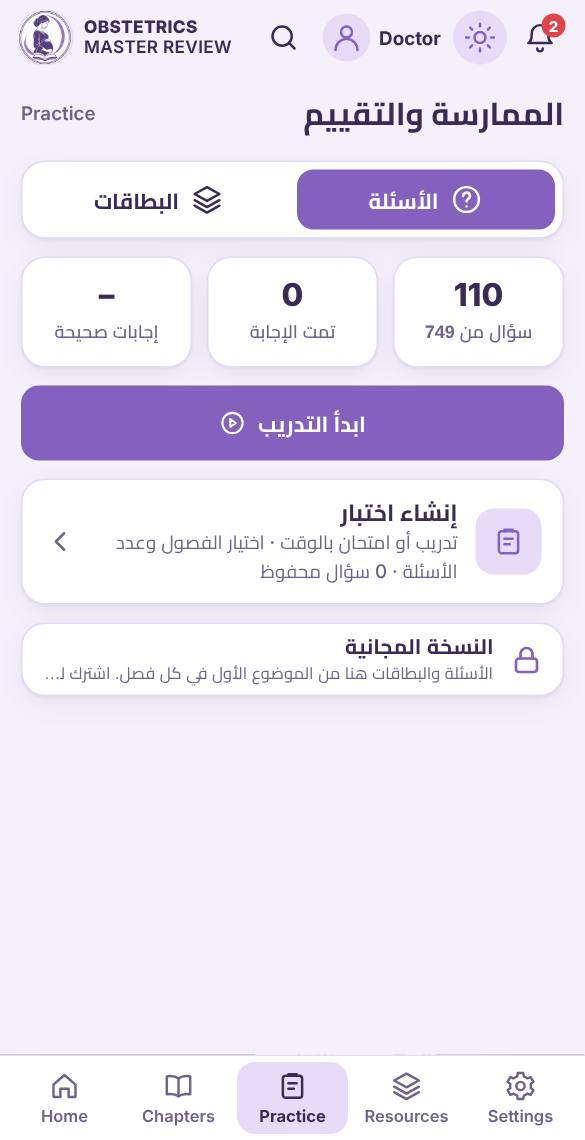
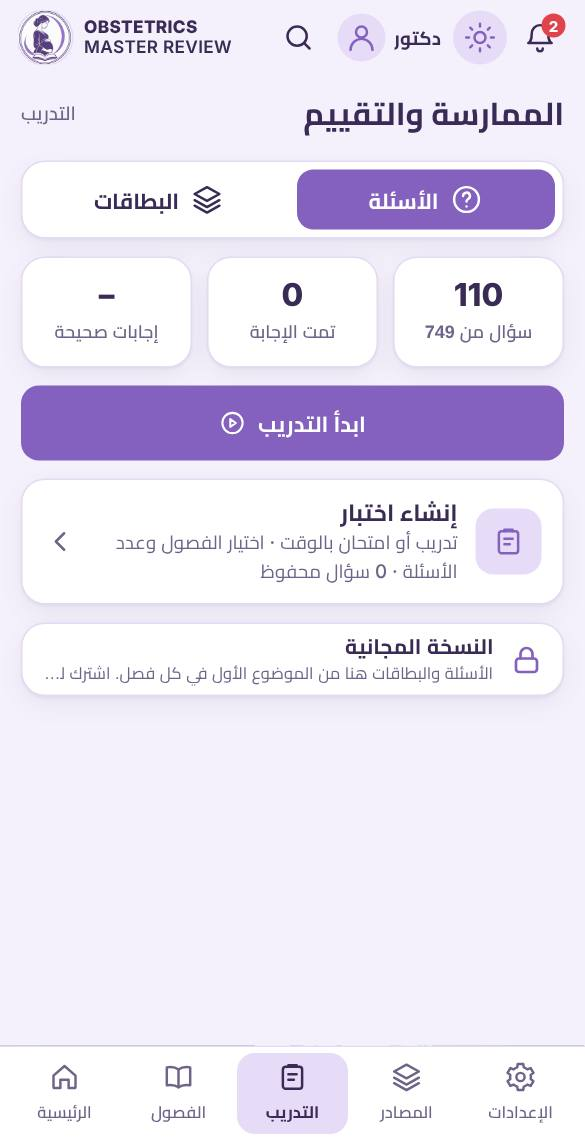
Search across the app with scopes and word matching; progress sheet and Home progress tiles rebuilt
Claude-Session: https://claude.ai/code/session_01FGisyfoAP4Jc4Rz7CoPi67

diff --git a/src/v2.search.js b/src/v2.search.js
@@ -1,0 +1,45 @@
+/* ---------- search (owner, 11 Nov 2026): one box for the whole app. Under it the student chooses where to search (everything, topics, the
+   book's pages, flashcards, questions, the app's own places) and which chapter. Matching is by words, not by the exact phrase: every word
+   typed must be found, in any order; case, hyphens, dashes and Arabic letter forms do not matter; a match in a topic's name comes first. ---------- */
+var SSC=sp('ssc')||'all',SCH2=0;
+function sn(s){return String(s||'').toLowerCase().replace(/[ً-ْـ]/g,'').replace(/[أإآ]/g,'ا').replace(/ة/g,'ه').replace(/ى/g,'ي').replace(/[‐-―\-_/'’`.,;:()\[\]"“”]+/g,' ').replace(/\s+/g,' ').trim()}
+var SPLACES=[['الفصول','chapters topics contents فهرس محتويات','v:v2chapters','book'],['بنك الأسئلة','questions question bank qbank mcq test exam اختبار امتحان اسئله','v:qbank-v','q'],['البطاقات','flashcards cards بطاقات كروت مراجعه','a:allcards','layers'],
+ ['بطاقات اليوم','today daily cards streak سلسله','a:cards','layers'],['المراجعة السريعة','rapid review recap ملخص','a:rr','bolt'],['أدوية التوليد','drugs doses pharmacology ادويه جرعات','a:dr','pill'],['السريري OSCE','osce clinical history examination stations محطات فحص','a:osce','steth'],
+ ['المحاضرات','video lectures videos فيديو محاضره','v:v2lect','play'],['السلايدات','slides lecture slides شرائح','v:v2slides','slides'],['ملاحظاتي','notes highlights my notes تظليل ملاحظه','a:notes','pen'],['المصادر المحفوظة','saved bookmarks محفوظات علامه','v:v2saved','bm'],
+ ['الاشتراك','subscription subscribe plans payment price trial bankak اشتراك دفع سعر تجربه خطه تفعيل','a:sub','crown'],['الملف الشخصي','profile name photo user number اسم صوره','v:v2profile','user'],['المظهر واللون واللغة','appearance theme colour color language night dark day arabic english لون ليلي لغه مظهر','v:v2settings','palette'],
+ ['الإشعارات','notifications bell اشعار','v:v2notif','bell'],['دليل الاستخدام','user manual guide how to use شرح طريقه','v:v2help','book'],['المساعدة','help contact whatsapp telegram call phone support مساعده تواصل واتساب','v:v2contact','help'],
+ ['عن الكتاب','about authors reviewers references edition copyright مؤلف مراجع حقوق','v:v2about','info'],['التنزيلات','downloads offline تنزيل','v:v2dl','dl'],['تقدّمي','progress statistics تقدم','a:prog','bars'],['الإعدادات','settings اعدادات','v:v2settings','gear']];
+var STXT=null,SCARD=null,SQ=null;
+function sIndex(){if(STXT&&STXT.length===TEXT.length)return;STXT=TEXT.map(sn);SCARD=[];deckIds.forEach(function(id){DECKS[id].cards.forEach(function(c){SCARD.push({id:id,c:c,n:sn(c[1]+' '+c[2])})})});
+  SQ=QS.map(function(q){return {q:q,n:sn((q.stem||'')+' '+(q.q||'')+' '+(q.theme||''))}})}
+function sHit(n,tk){for(var i=0;i<tk.length;i++)if(n.indexOf(tk[i])<0)return false;return true}
+function sMark(raw,tk,len){var low=raw.toLowerCase(),k=-1,w='';tk.forEach(function(t){var p=low.indexOf(t);if(p>=0&&(k<0||p<k)){k=p;w=t}});if(k<0)return X(raw.slice(0,len||140))+(raw.length>(len||140)?'…':'');
+  var a=Math.max(0,k-50);return (a?'…':'')+X(raw.slice(a,k))+'<mark>'+X(raw.slice(k,k+w.length))+'</mark>'+X(raw.slice(k+w.length,k+w.length+90))+'…'}
+function sScopes(){var S=[['all','الكل'],['topics','المواضيع'],['pages','صفحات الكتاب'],['cards','البطاقات'],['qs','الأسئلة'],['app','التطبيق']];
+  return '<div class="ssc" lang="ar">'+S.map(function(s){return '<button type="button" class="chip'+(SSC===s[0]?' on':'')+'" data-ssc="'+s[0]+'">'+s[1]+'</button>'}).join('')+
+   '<select id="sChSel" aria-label="الفصل"><option value="0">كل الفصول</option>'+META.chapters.map(function(c){return '<option value="'+c.n+'"'+(SCH2===c.n?' selected':'')+'>Chapter '+c.n+' · '+X(c.name)+'</option>'}).join('')+'</select></div>'}
+function sPlace(p){return '<button type="button" class="v2c sres" data-go="'+p[2]+'"><span class="ii">'+I(p[3]||'chev')+'</span><span><b lang="ar">'+p[0]+'</b></span>'+I('chev')+'</button>'}
+runSearch=function(){var raw=$('q').value.trim(),out=$('results'),tk=sn(raw).split(' ').filter(function(x){return x.length>1||/\d/.test(x)}),h=sScopes();
+  if(!tk.length){out.innerHTML=h+'<p class="shd" lang="ar">أماكن في التطبيق</p><div class="sgr">'+SPLACES.slice(0,12).map(sPlace).join('')+'</div>';return}
+  sIndex();var on=function(k){return SSC==='all'||SSC===k},inCh=function(ch){return !SCH2||ch===SCH2},n=0,sec=function(t,c,body){n+=c;return c?'<p class="shd" lang="ar">'+t+' <small>'+c+'</small></p>'+body:''};
+  if(on('topics')){var T=TOPICS.filter(function(t){return inCh(t.ch)&&sHit(sn(t.no+' '+t.title+' '+(t.sub||'')+' '+chap(t.ch).name),tk)}).sort(function(a,b){return (sHit(sn(b.title),tk)?1:0)-(sHit(sn(a.title),tk)?1:0)});
+    h+=sec('المواضيع',T.length,'<div class="sgr">'+T.slice(0,20).map(function(t){return '<button type="button" class="v2c sres" data-topic="'+t.id+'"><span class="ii">'+I(locked(t.id)?'lock':'book')+'</span><span><b>'+t.no+' '+X(t.title.charAt(0).toUpperCase()+t.title.slice(1))+'</b><small>Chapter '+t.ch+' · '+X(chap(t.ch).name)+'</small></span>'+I('chev')+'</button>'}).join('')+'</div>')}
+  if(on('app')&&!SCH2){var P=SPLACES.filter(function(p){return sHit(sn(p[0]+' '+p[1]),tk)});h+=sec('أماكن في التطبيق',P.length,'<div class="sgr">'+P.map(sPlace).join('')+'</div>')}
+  if(on('pages')){var H=[];STXT.forEach(function(t,i){if(!sHit(t,tk))return;var p=PAGES[i],tp=p.t?TOPICS.filter(function(x){return x.id===p.t})[0]:null;if(SCH2&&(!tp||tp.ch!==SCH2))return;
+      var c=0,k=t.indexOf(tk[0]);while(k>=0&&c<50){c++;k=t.indexOf(tk[0],k+1)}H.push({i:i,c:c+(sn(p.label).indexOf(tk[0])>=0?100:0)+(t.indexOf(tk.join(' '))>=0?40:0)})});H.sort(function(a,b){return b.c-a.c});
+    h+=sec('صفحات الكتاب',H.length,'<div class="res">'+H.slice(0,40).map(function(x){return '<button class="ri" type="button" data-i="'+x.i+'" data-w="'+X(tk[0])+'"><span class="pn">p '+(PAGES[x.i].bn||'✎')+'</span><span><b>'+X(PAGES[x.i].label)+'</b><span>'+sMark(TEXT[x.i],tk)+'</span></span></button>'}).join('')+'</div>')}
+  if(on('cards')){var C=SCARD.filter(function(x){return inCh(DCH[x.id])&&sHit(x.n,tk)});
+    h+=sec('البطاقات',C.length,'<div class="res">'+C.slice(0,30).map(function(x){return '<button class="ri sc" type="button"><span class="pn">'+X(DECKS[x.id].short)+'</span><span><b>'+sMark(x.c[1],tk,200)+'</b><span class="an">'+X(x.c[2])+'</span></span></button>'}).join('')+'</div>')}
+  if(on('qs')){var Q=SQ.filter(function(x){return inCh(x.q.ch)&&sHit(x.n,tk)});
+    h+=sec('الأسئلة',Q.length,'<div class="res">'+Q.slice(0,30).map(function(x){var t=TOPICS.filter(function(y){return y.id===x.q.topic})[0];return '<button class="ri" type="button" data-qid="'+X(x.q.id)+'"><span class="pn">'+(t?t.no:'Q')+'</span><span><b>'+sMark((x.q.stem||x.q.q||''),tk,200)+'</b><span>'+X(x.q.q||x.q.lead||'')+'</span></span></button>'}).join('')+'</div>')}
+  out.innerHTML=h+(n?'':'<p class="empty" lang="ar">لا توجد نتائج. جرّب كلمة أقصر، أو غيّر مكان البحث.</p>')};
+$('q').addEventListener('input',function(){runSearch()});
+$('results').onclick=function(e){var b=e.target.closest('button');if(!b)return;
+  if(b.dataset.ssc){SSC=b.dataset.ssc;sp('ssc',SSC);runSearch();return}
+  if(b.dataset.topic){var t=TOPICS.filter(function(x){return x.id===b.dataset.topic})[0];if(t)openTopic(t);return}
+  if(b.dataset.go){var g=b.dataset.go.split(':');if(g[0]==='v')go(g[1]);else if(ACT[g[1]])ACT[g[1]](b);return}
+  if(b.dataset.qid){CUR={ids:[b.dataset.qid],ans:{},sub:{},mode:'tutor',i:0,start:Date.now(),lim:75};saveQ();go('qbank-v');return}
+  if(b.classList.contains('sc')){b.classList.toggle('open');return}
+  if(b.dataset.i){var i=+b.dataset.i;goIdx(i);try{markIn(i,b.dataset.w||$('q').value.trim())}catch(x){}}};
+$('results').addEventListener('change',function(e){if(e.target.id==='sChSel'){SCH2=+e.target.value;runSearch()}});
+runSearch();

diff --git a/src/v2.js b/src/v2.js
@@ -143,6 +143,7 @@ function topicAt(i){var g=grp(i);if(g.slice(0,2)!=='t:')return null;var id=g.sli
 function chap(n){for(var i=0;i<META.chapters.length;i++)if(META.chapters[i].n===n)return META.chapters[i];return {n:n,name:''}}
 function chImg(n){return 'img/chcov'+n+'.jpg'}   // chapter previews use the still-life chapter pictures (owner, 10 Nov 2026: the old banner strips looked bad)
 function npg(id){return (tpages[id]||[]).length}
+function ring(p,sz){var r=15.5,c=2*Math.PI*r;return '<svg class="rg" viewBox="0 0 36 36" width="'+sz+'" height="'+sz+'"><circle cx="18" cy="18" r="'+r+'" fill="none" stroke="var(--sel)" stroke-width="4"/>'+(p>0?'<circle cx="18" cy="18" r="'+r+'" fill="none" stroke="var(--pri)" stroke-width="4" stroke-linecap="round" stroke-dasharray="'+(c*p/100).toFixed(1)+' '+c.toFixed(1)+'" transform="rotate(-90 18 18)"/>':'')+'</svg>'}
 function overall(){var tp=0,tr=0;TOPICS.forEach(function(t){tp+=npg(t.id);tr+=tRead(t.id)});return pc(tr,tp)}
 function dueToday(){try{var D=daily();return Math.max(0,D.keys.length-D.done.length)}catch(e){return 0}}
 function qTotal(){return TOT.qs||QS.length}function cTotal(){var n=0;deckIds.forEach(function(id){n+=DECKS[id].cards.length});return TOT.cards||n}
@@ -171,7 +172,8 @@ R.v2home=function(){var a=access(),lp=lastPage(),has=sp('pk')&&lp>0,t=has?topicA
       '<div class="ct"><div><b>'+META.chapters.length+'</b><span>chapters</span></div><div><b>'+TOPICS.length+'</b><span>topics</span></div><div><b>'+cTotal()+'</b><span>flashcards</span></div><div><b>'+qTotal()+'</b><span>questions</span></div></div>'+
       '<button type="button" class="v2btn ol" data-act="cover" lang="ar">'+I('book')+'افتح الكتاب كاملًا</button></div></div>'+
    '</div><div>'+
-    '<button type="button" class="v2c hsum" data-act="prog" lang="ar"><span>'+I('flame','fl')+(sk?sk+' أيام سلسلة متتالية':'ابدأ سلسلتك اليوم')+'</span><span>'+I('bars')+'التقدم الكلي <bdi>'+overall()+'%</bdi></span></button>'+
+    '<div class="hsm2" lang="ar"><button type="button" class="v2c" data-act="prog"><span class="ic fl">'+I('flame')+'</span><span class="tx"><b><bdi>'+sk+'</bdi> '+(sk===1?'يوم':'أيام')+'</b><small>'+(sk?'سلسلة المراجعة اليومية':'ابدأ سلسلتك اليوم')+'</small></span></button>'+
+     '<button type="button" class="v2c" data-act="prog"><span class="ic">'+ring(overall(),34)+'</span><span class="tx"><b><bdi>'+overall()+'%</bdi></b><small>التقدم الكلي</small></span></button></div>'+
     '<div class="hst" lang="ar"><button type="button" class="v2c" data-act="cards"><span class="t">'+I('layers')+'بطاقات اليوم</span><span class="n">'+(dueToday()?dueToday()+' بطاقات':'اكتملت ✓')+'</span><span class="a">ابدأ المراجعة'+I('back')+'</span></button>'+
       '<button type="button" class="v2c" data-v="qbank-v"><span class="t">'+I('q')+'بنك الأسئلة</span><span class="n">'+qTotal()+' سؤال</span><span class="a">ابدأ التدريب'+I('back')+'</span></button></div>'+
     '<div class="hq" lang="ar"><button type="button" class="v2c" data-act="last">'+I('clock')+'<span>آخر نشاط'+(lal?'<small dir="ltr">'+X(lal)+'</small>':'')+'</span>'+I('chev','cv')+'</button>'+
@@ -420,7 +422,13 @@ var ACT={sub:function(){RETS=V2.indexOf(CURV)>=0&&CURV!=='v2sub'&&CURV!=='v2pay'
       PAY.file=null;PAY.edit=false;REQ={status:'pending',plan:PAY.plan,t:ED&&REQ?REQ.t:new Date().toISOString()};spj('req',REQ);header();go('v2sub')},function(){PAY.busy=false;b.disabled=false;M.textContent='تعذّر الإرسال. تأكد من الاتصال واضغط الزر مرة أخرى.'})},
   cont:function(){goIdx(sp('pk')&&lastPage()>0?lastPage():BIDX[TOPICS[0].p-1])},
   cover:function(){WHOLE=true;SCOPE='all';applyScope();goIdx(0)},
-  prog:function(){try{renderHome()}catch(e){}$('v2psheet').hidden=false},
+  prog:function(){var np=0,nr=0,td=0;TOPICS.forEach(function(t){var a=npg(t.id),b=tRead(t.id);np+=a;nr+=b;if(a&&b>=a)td++});
+    var ck=0,ct=0;deckIds.forEach(function(id){ck+=deckKnown(id);ct+=DECKS[id].cards.length});var qu=0,qo=0;QS.forEach(function(q){var s=QST[q.id];if(s&&(s.n||s.a)){qu++;if(!s.w)qo++}});var sk=0;try{sk=streak()}catch(e){}
+    function tile(ic,a,b,l){return '<div class="v2c ptl"><span class="ic">'+I(ic)+'</span><b><bdi>'+a+'</bdi>'+(b!==''?'<small> / <bdi>'+b+'</bdi></small>':'')+'</b><span>'+l+'</span></div>'}
+    $('v2pbody').innerHTML='<div class="v2c ptop" lang="ar"><span class="pr">'+ring(overall(),120)+'<b><bdi>'+overall()+'%</bdi></b></span><div><h4>التقدم الكلي</h4><p>نسبة الصفحات التي علّمتها «قرأتها» أو «أتقنتها» من كل صفحات الكتاب.</p></div></div>'+
+      '<div class="ptg" lang="ar">'+tile('book',nr,np,'صفحات مقروءة')+tile('check',td,TOPICS.length,'مواضيع مكتملة')+tile('layers',ck,ct,'بطاقات معروفة')+tile('q',qu,QS.length,'أسئلة محلولة')+tile('bars',(qu?Math.round(qo/qu*100):0)+'%','','إجابات صحيحة')+tile('flame',sk,'','أيام متتالية')+'</div>'+
+      '<p class="shd" lang="ar">التقدم في كل فصل</p><div class="v2c pch">'+META.chapters.map(function(c){var s=chStat(c);return '<div><span><b>Chapter '+c.n+'</b> '+X(c.name)+'</span><em><bdi>'+s.pr+'%</bdi></em>'+bar(s.pr)+'</div>'}).join('')+'</div>';
+    $('v2psheet').hidden=false},
   cards:function(){curDeck='daily';started=false;go('cards')},
   allcards:function(){curDeck='all';started=false;go('cards')},
   last:function(){var la=spj('lastact');if(!la||la.k==='read')ACT.cont();else if(la.k==='cards')go('cards');else if(la.k==='qb')go('qbank-v');else go('v2lect')},
@@ -457,7 +465,7 @@ var ACT={sub:function(){RETS=V2.indexOf(CURV)>=0&&CURV!=='v2sub'&&CURV!=='v2pay'
   nopen:function(b){NR[b.dataset.id]=1;spj('nread',NR);header();ACT[b.dataset.go2]()}};
 
 /* progress details live in a sheet now */
-$('v2pbody').appendChild($('prog'));$('v2psx').onclick=function(){$('v2psheet').hidden=true};$('v2psheet').addEventListener('click',function(e){if(e.target===this)this.hidden=true});
+$('v2psx').onclick=function(){$('v2psheet').hidden=true};$('v2psheet').addEventListener('click',function(e){if(e.target===this)this.hidden=true});
 applyLook();go('v2home');poll();
 /* welcome on every opening (owner, 10 Nov 2026): logo, greeting, «ابدأ»; the press plays a rising chime and the screen opens with a glow */
 (function(){var w=$('v2wel'),nm=myName();$('v2welT').innerHTML=greet();$('v2welT').dir='rtl';w.hidden=false;

diff --git a/src/v2.lang.js b/src/v2.lang.js
@@ -57,7 +57,7 @@ var T_EN={
 "من الإعدادات ← الاشتراك.":"from Settings → Subscription.","من هنا تبدأ كل شيء.":"Everything starts here.","مواضيع الفصل":"Topics of the chapter","نص":"Text","نص سفلي":"Lower half","نهاري":"Day","هذا الجهاز مفعّل والكتاب مفتوح كاملًا":"This device is active and the whole book is open","هذه الصفحة":"This page","و":" and ","واتساب":"WhatsApp",
 "واتساب · تيليجرام · اتصال":"WhatsApp · Telegram · Call","يظهر «طلبك قيد المراجعة». يمكنك":"“Your request is under review” appears. You can","يعيدك إلى الرئيسية، ثم علامة الحفظ ولون الصفحة. على الجهاز اللوحي والحاسوب يوجد زر يخفي القائمة الجانبية ويظهرها.":"takes you Home, then the bookmark and the page colour. On tablets and computers a button hides and shows the side menu.",
 "↶ تراجع":"↶ Undo","↷ إعادة":"↷ Redo","🖍 ماركر حر: ظلّل أي شيء، حتى كتابة القلم":"🖍 Free marker: highlight anything, even pen writing","اللغة":"Language","العربية":"العربية","دكتور":"Doctor","فترة تجريبية":"Trial period","انتهت التجربة":"Trial ended","انتهى الاشتراك":"Subscription ended","بين أجهزتك":"Between your devices","الترقية":"Upgrade","ترقية":"Upgrade","اشترك":"Subscribe",
-"استمتع بالوصول المحدود للمحتوى: الموضوع الأول من كل فصل":"Limited access: the first topic of each chapter","الفترة التجريبية":"Trial period","الكتاب كله مفتوح الآن حتى تنتهي الفترة":"The whole book is open until the trial ends","انتهت الفترة التجريبية":"The trial has ended","الموضوع الأول من كل فصل ما زال مفتوحًا":"The first topic of each chapter is still open","اكتملت ✓":"Done ✓","محطات":"stations"};
+"استمتع بالوصول المحدود للمحتوى: الموضوع الأول من كل فصل":"Limited access: the first topic of each chapter","الفترة التجريبية":"Trial period","الكتاب كله مفتوح الآن حتى تنتهي الفترة":"The whole book is open until the trial ends","انتهت الفترة التجريبية":"The trial has ended","الموضوع الأول من كل فصل ما زال مفتوحًا":"The first topic of each chapter is still open","اكتملت ✓":"Done ✓","محطات":"stations","صفحات الكتاب":"Book pages","التطبيق":"The app","أماكن في التطبيق":"Places in the app","لا توجد نتائج. جرّب كلمة أقصر، أو غيّر مكان البحث.":"No results. Try a shorter word, or change where you search.","الفصل":"Chapter","يوم":"day","أيام":"days","سلسلة المراجعة اليومية":"Daily revision streak","نسبة الصفحات التي علّمتها «قرأتها» أو «أتقنتها» من كل صفحات الكتاب.":"The share of the book's pages you have marked “Read” or “Mastered”.","صفحات مقروءة":"Pages read","مواضيع مكتملة":"Topics completed","بطاقات معروفة":"Cards known","أسئلة محلولة":"Questions answered","أيام متتالية":"Days in a row","التقدم في كل فصل":"Progress in each chapter","المظهر واللون واللغة":"Appearance, colour and language","أدوية التوليد":"Obstetric drugs"};
 var T_AR={"Home":"الرئيسية","Chapters":"الفصول","Practice":"التدريب","Resources":"المصادر","Settings":"الإعدادات","Doctor":"دكتور","chapters":"فصول","topics":"مواضيع","flashcards":"بطاقات","questions":"أسئلة","Today":"اليوم","All topics":"كل المواضيع","Level":"المستوى","All levels":"كل المستويات","Easy":"سهل","Medium":"متوسط","Hard":"صعب",
 "Again":"مرة أخرى","Knew it":"عرفتها","Tap the card to see the answer":"اضغط البطاقة لإظهار الإجابة","Answer":"الإجابة","Correct":"صحيحة","Used":"مستخدمة","Unused":"جديدة","Marked":"معلّمة","Incorrect":"خاطئة","All":"الكل","Create a test":"إنشاء اختبار","Mode":"النمط","Tutor":"تدريب","Timed":"امتحان",
 "see the answer after each question":"تظهر الإجابة بعد كل سؤال","like the exam · # min # s each":"مثل الامتحان · # دقيقة و# ثانية لكل سؤال","Questions":"الأسئلة","all chapters":"كل الفصول","Number of questions":"عدد الأسئلة","# available":"# متاحة","Start test":"ابدأ الاختبار","# questions · Tutor":"# سؤال · تدريب","# questions · Timed":"# سؤال · امتحان",

diff --git a/src/v2.css b/src/v2.css
@@ -562,3 +562,31 @@ button{font-family:inherit}
   .hcont .ph{inset:0 0 0 44%}.hcont .pv{right:16px;bottom:16px;max-width:190px;width:26%}
 }
 @media (max-width:759px){@container (max-height:150px){.hcont .pv{display:none}}}
+
+/* search */
+.ssc{display:flex;flex-wrap:wrap;gap:6px;align-items:center;direction:rtl;margin:2px 0 10px}
+.ssc .chip{border:1.5px solid var(--bd);background:var(--sf);color:var(--tx);border-radius:999px;padding:6px 13px;font:700 13px 'Cairo',var(--ui)}.ssc .chip.on{background:var(--pri);color:var(--pon);border-color:var(--pri)}
+.ssc select{flex:1 1 150px;min-width:0;height:36px;border-radius:999px;border:1.5px solid var(--bd);background:var(--sf);color:var(--tx);padding:0 12px;font:600 13px var(--ui);direction:ltr}
+.shd{margin:14px 2px 6px;font:800 14px 'Cairo',var(--ui);color:var(--tx);direction:rtl;text-align:right}.shd small{font:700 11.5px var(--ui);color:var(--pri);background:var(--sel);border-radius:9px;padding:1px 8px;margin:0 6px}
+.sgr{display:grid;grid-template-columns:1fr;gap:8px}@media (min-width:760px){.sgr{grid-template-columns:1fr 1fr 1fr}}
+.sres{display:grid;grid-template-columns:36px 1fr auto;gap:10px;align-items:center;padding:9px 12px;text-align:left;color:var(--tx);width:100%}
+.sres .ii{width:36px;height:36px;border-radius:10px;background:var(--sel);color:var(--pri);display:grid;place-items:center}.sres .ii .v2ic{width:19px;height:19px}
+.sres b{display:block;font:700 14px/1.3 'Cairo',var(--ui)}.sres small{display:block;font:500 11.5px var(--ui);color:var(--sub)}.sres>.v2ic{width:16px;height:16px;color:var(--sub)}
+#results .res{background:var(--sf);border-color:var(--bd)}#results .ri{border-color:var(--bd);color:var(--tx)}#results .ri .pn{color:var(--pri)}#results .ri span{color:var(--sub)}#results .ri b{color:var(--tx)}
+#results mark{background:color-mix(in srgb,var(--pri) 28%,transparent);color:inherit;border-radius:3px;padding:0 1px}
+#results .ri.sc .an{display:none;margin-top:4px;color:var(--tx);font-weight:600}#results .ri.sc.open .an{display:block}
+
+/* Home: streak and overall progress as two tidy tiles; progress sheet (owner, 11 Nov 2026) */
+.hsm2{display:grid;grid-template-columns:1fr 1fr;gap:8px;direction:rtl}
+.hsm2 button{display:flex;align-items:center;gap:10px;padding:8px 12px;color:var(--tx);text-align:right;min-width:0}
+.hsm2 .ic{flex:none;width:38px;height:38px;border-radius:50%;display:grid;place-items:center;background:var(--sel);color:var(--pri)}.hsm2 .ic.fl{background:#FDE8DD;color:#E8622C}.hsm2 .ic .rg{display:block}.hsm2 .ic:has(.rg){background:none}
+.hsm2 .tx{display:flex;flex-direction:column;min-width:0}.hsm2 b{font:800 16px/1.25 'Cairo',var(--ui)}.hsm2 small{font:600 11.5px/1.3 'Cairo',var(--ui);color:var(--sub);white-space:nowrap;overflow:hidden;text-overflow:ellipsis}
+@media (min-width:760px){.hsm2 button{padding:12px 16px}.hsm2 b{font-size:19px}.hsm2 small{font-size:13px}.hsm2 .ic{width:44px;height:44px}}
+.ptop{display:flex;align-items:center;gap:16px;padding:16px;direction:rtl;text-align:right}.ptop .pr{position:relative;flex:none;width:120px;height:120px;display:grid;place-items:center}.ptop .pr svg{position:absolute;inset:0}
+.ptop .pr b{position:relative;font:800 26px var(--ui);color:var(--tx)}.ptop h4{margin:0;font:800 18px 'Cairo',sans-serif}.ptop p{margin:4px 0 0;font:500 13px/1.6 'Cairo',sans-serif;color:var(--sub)}
+.ptg{display:grid;grid-template-columns:repeat(3,1fr);gap:8px;margin-top:10px;direction:rtl}
+.ptl{display:flex;flex-direction:column;align-items:center;gap:2px;padding:12px 6px;text-align:center}.ptl .ic{width:34px;height:34px;border-radius:50%;background:var(--sel);color:var(--pri);display:grid;place-items:center;margin-bottom:2px}.ptl .ic .v2ic{width:18px;height:18px}
+.ptl b{font:800 18px var(--ui);color:var(--tx)}.ptl b small{font:600 11.5px var(--ui);color:var(--sub)}.ptl>span:last-child{font:600 12px 'Cairo',sans-serif;color:var(--sub)}
+.pch{padding:6px 14px}.pch>div{display:grid;grid-template-columns:1fr auto;gap:4px 10px;padding:9px 0;border-top:1px solid var(--bd);font:500 13px var(--ui);color:var(--tx);direction:ltr;text-align:left}.pch>div:first-child{border-top:0}
+.pch em{font:800 13px var(--ui);font-style:normal;color:var(--pri)}.pch>div>:last-child{grid-column:1/-1}
+.pch .v2bar{height:6px;align-self:center}

diff --git a/build.py b/build.py
@@ -73,7 +73,13 @@ def v2(shell):
     """App redesign (owner, 10 Nov 2026): src/v2.css, v2.html (<!--TOP--> <!--VIEWS--> <!--NAV-->) and v2.js are laid over the old shell."""
     rd = lambda n: open(os.path.join(R, 'src', n), encoding='utf-8').read()
     _rd = rd
-    rd = lambda n: _rd(n) + ('\n' + _rd('v2.lang.js') if n == 'v2.js' else '') + (en_css(_rd(n)) if n == 'v2.css' else '')
+    def rd(n):
+        s = _rd(n)
+        if n == 'v2.css': return s + en_css(s)
+        if n == 'v2.js':   # the search and language layers run inside v2's own closure
+            s = s.rstrip(); assert s.endswith('})();')
+            return s[:-5] + '\n' + _rd('v2.search.js') + '\n' + _rd('v2.lang.js') + '\n})();'
+        return s
     top, rest = rd('v2.html').split('<!--TOP-->')[1].split('<!--VIEWS-->')
     vw, nav = rest.split('<!--NAV-->')
     def ins(s, anchor, new, before=True):

diff --git a/CLAUDE.md b/CLAUDE.md
@@ -261,3 +261,11 @@ The owner is turning the book into an app (brief: lavender theme, five destinati
   app string to the dictionaries**; `/tmp`-style check: open each screen with orr-lang=en and list text nodes that still hold Arabic. States not
   yet covered: subscription/payment messages, request states, locked-page texts, old sheets (notes list), posters (pictures stay Arabic).
 - Greeting carries «د.»: «مرحب بك يا د. <name>» (a title the student typed is not doubled); header name chip is larger on tablets/PCs.
+- **Search (owner, 11 Nov 2026):** `src/v2.search.js` replaces `runSearch`: under the box the student picks where to search (الكل · المواضيع ·
+  صفحات الكتاب · البطاقات · الأسئلة · التطبيق, `orr-ssc`) and a chapter. Words are matched in any order after normalising case, hyphens and Arabic
+  letter forms (`sn`); topic-name matches come first; `SPLACES` lists the app's own places with Arabic and English keywords (add new screens there).
+  A flashcard result opens its answer in place; a question result opens that question in tutor mode. build.py puts v2.search.js and v2.lang.js
+  inside v2.js's closure.
+- **Progress (owner, 11 Nov 2026):** Home shows two tiles (`.hsm2`: streak days, overall % with a ring); both open the progress sheet, now drawn by
+  v2 (`ACT.prog`: ring, six tiles — pages read, topics completed, cards known, questions answered, % correct, days in a row — and a bar per
+  chapter). The old progress card is no longer moved into the sheet (it showed as a black disc).
